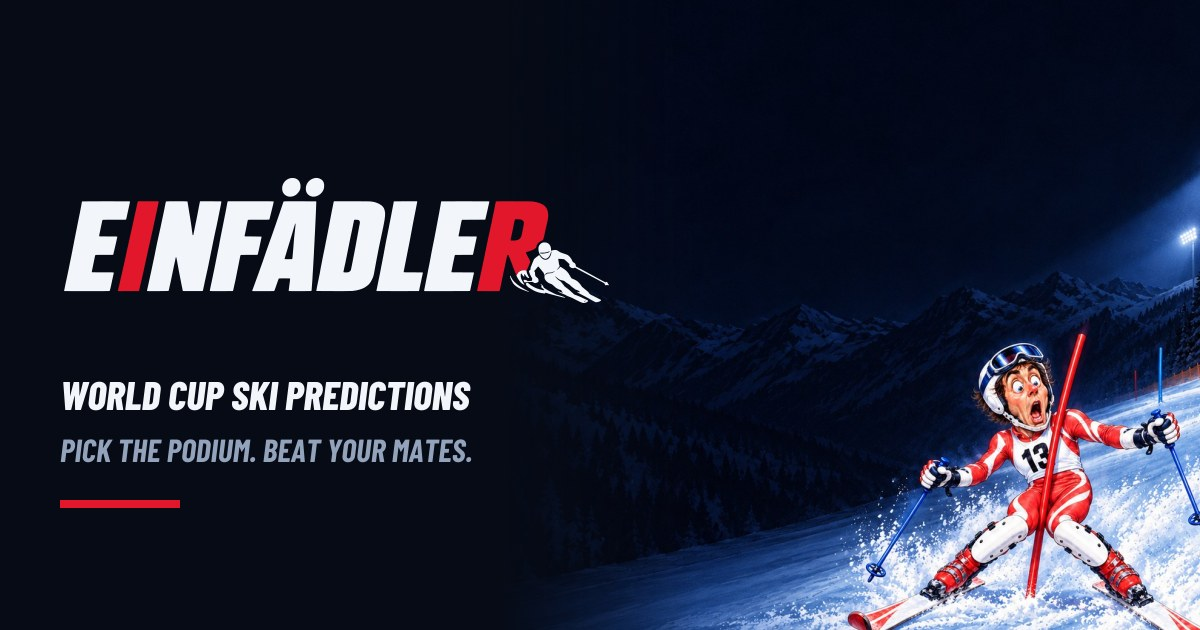
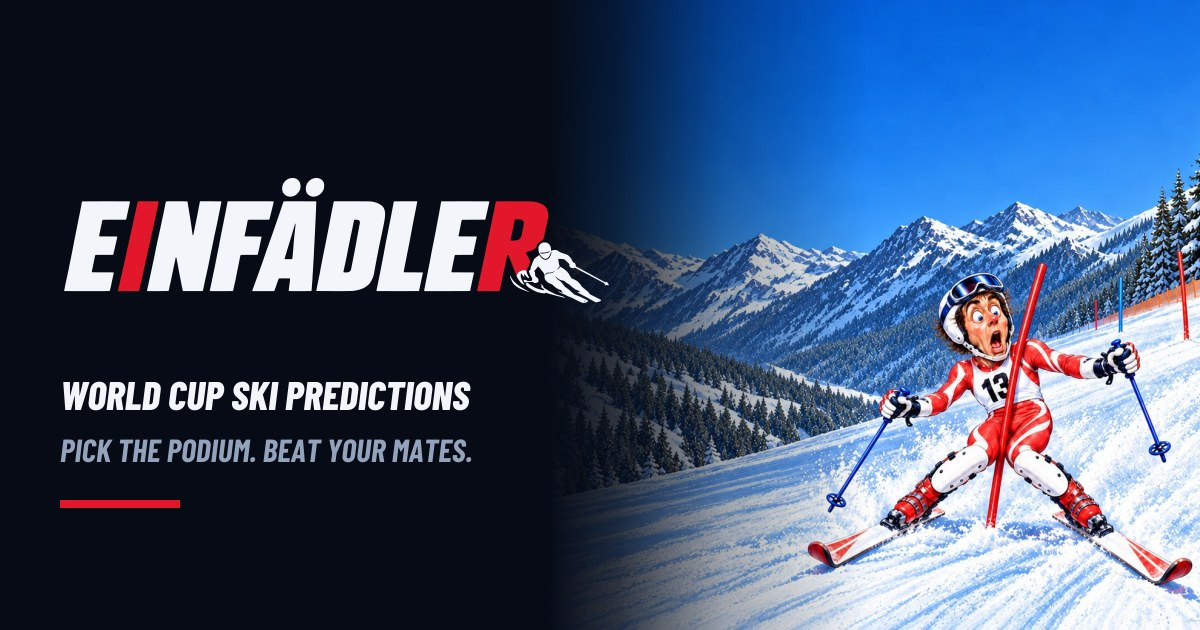
Add files via upload

diff --git a/app.js b/app.js
@@ -60,8 +60,18 @@
   // ---------- EINFÄDLER art ----------
   const EF = "";
   const EF_SCENE = { DH: "downhill", SG: "super-g", GS: "giant-slalom", SL: "slalom", AC: "combined", TDC: "combined", PAR: "parallel", PGS: "parallel", PSL: "parallel" };
-  const efScene = (d) => `${EF}scene-header-${EF_SCENE[d] || "giant-slalom"}.jpg`;
-  const efBanner = (d, page = false) => `<div class="ef-banner${page ? " page" : ""}"><img src="${efScene(d)}" alt=""></div>`;
+  // Venue specials: these weekends get their own art instead of the discipline header.
+  // Matched on race.venue (lower-case, partial) and, if given, the discipline. First match wins.
+  const EF_VENUE = [
+    { match: "kitzb", disc: "SG", art: "scene-venue-kitzbuehel-rooster" },     // Hahnenkamm = rooster's comb
+    { match: "kitzb", disc: "DH", art: "scene-venue-kitzbuehel-mousetrap" },   // the Mausefalle
+    { match: "kitzb", disc: "SL", art: "scene-venue-kitzbuehel-gondola" },     // the cast in a winner's gondola
+    { match: "madonna", art: "scene-hero-night", pos: "60% 85%" },             // night slalom
+    { match: "schladming", art: "scene-hero-night", pos: "60% 85%" },          // night races
+  ];
+  const efVenue = (venue, d) => EF_VENUE.find((x) => (venue || "").toLowerCase().includes(x.match) && (!x.disc || x.disc === d));
+  const efScene = (d, venue) => { const v = efVenue(venue, d); return v ? `${EF}${v.art}.jpg` : `${EF}scene-header-${EF_SCENE[d] || "giant-slalom"}.jpg`; };
+  const efBanner = (d, page = false, venue = "") => { const v = efVenue(venue, d); return `<div class="ef-banner${page ? " page" : ""}"><img src="${efScene(d, venue)}" alt=""${v?.pos ? ` style="object-position:${v.pos}"` : ""}></div>`; };
   const efMoment = (name, small = false) => `<img class="ef-moment${small ? " sm" : ""}" src="${EF}moment-${name}.webp" alt="">`;
   const efIcon = (name) => `<img class="ef-icon" src="${EF}icon-${name}.webp" alt="">`;
   // Your-pick result art: Perfect Score only for the exact podium, Champagne for any other points, Zero Points for 0. Badges always show the real total.
@@ -72,7 +82,9 @@
     return { art: "zero-points", badge: `<span class="ef-badge zero">0</span>` };
   }
   // Double points: a ×2 / ×3 pill wherever a race appears.
-  const efMult = (r) => (r.multiplier > 1 ? ` <span class="pill score" style="padding:2px 8px;font-size:11px">${efIcon("multiplier")}×${r.multiplier}</span>` : "");
+  // The coin has "×2" printed on it, so it stands alone for ×2; ×3 is shown as text.
+  const efMultIcon = (m) => (m === 2 ? efIcon("multiplier") : `<b>×${m}</b>`);
+  const efMult = (r) => (r.multiplier > 1 ? ` <span class="pill score" style="padding:2px 8px;font-size:11px">${efMultIcon(r.multiplier)}</span>` : "");
   const multText = (r) => (r.multiplier > 1 ? `${r.multiplier === 2 ? "Double" : "Triple"} points: everything you score here counts ${r.multiplier === 2 ? "twice" : "three times"}.` : "");
   // Share cards for WhatsApp: the app writes name, race and score onto the template.
   async function efShare(template, { race = "", name = "", score = "" }) {
@@ -167,7 +179,7 @@
 
     view.innerHTML = `
       <section class="card slate">
-        <div class="ef-banner"><img src="scene-hero-night.jpg" alt="" style="object-position:60% 100%"></div>
+        <div class="ef-banner"><img src="scene-cover-day.jpg" alt="" style="object-position:60% 90%"></div>
         <img src="einfaedler-wordmark-dark.svg" alt="${esc(C.LEAGUE_NAME)}" style="height:44px;width:auto;align-self:flex-start">
         <p class="muted">Alpine World Cup ${C.SEASON - 1}/${String(C.SEASON).slice(2)} · podium predictions</p>
       </section>
@@ -177,7 +189,7 @@
         <div class="head">How it works</div>
         <div class="small">Before each World Cup race, pick who finishes 1st, 2nd and 3rd. Picks lock when run 1 starts.</div>
         <div class="small"><b>10</b> for the exact podium · <b>6</b> for the right three in the wrong order · otherwise <b>2</b> per skier in the exact spot and <b>1</b> per skier on the podium elsewhere. Ties count both skiers.</div>
-        <div class="small">Some races are marked ${efIcon("multiplier")}<b>×2</b> or <b>×3</b> by the admins before they lock: everything you score there is multiplied.</div>
+        <div class="small">Some races are marked ${efIcon("multiplier")} or <b>×3</b> by the admins before they lock: everything you score there is multiplied.</div>
         <div class="small">${FREE ? "Each competition has its own leaderboard." : "Each competition has its own buy-in, leaderboard and pot."} World Championships count too.</div>
       </div>
       <form id="comps" style="gap:10px">
@@ -294,7 +306,7 @@
         <a class="card link row" href="#/race/${last.id}">
           <div class="stack"><h3>${esc(last.venue)} · ${esc(last.discipline)} · ${genderName(last.gender)}${efMult(last)}</h3>
           <span class="muted small">${best ? `Best this race: ${best.points} (${esc(best.display_name)})` : "Scored"}</span></div>
-          <span class="ef-result">${mineScore ? efMoment(res.art, true) + res.badge : '<span class="big-score">—</span>'}</span></a>
+          <span class="ef-result">${mineScore ? efMoment(res.art, true) + res.badge : inComp(last.gender) ? efMoment("asleep", true) : '<span class="big-score">—</span>'}</span></a>
         <a href="#/results" class="muted small" style="text-align:right"><b>All past races →</b></a></section>`;
     }
     const counts = await Promise.all(next.map((r) => sb.rpc("pick_count", { r: r.id }).then((x) => x.data ?? null)));
@@ -313,13 +325,14 @@
         return `<section class="section">
           <div class="eyebrow">${first ? "Next race" : "Also open"} · locks in <span data-countdown="${r.start_time_utc || ""}"></span></div>
           <a class="card ${first ? "slate" : ""} link" href="#/race/${r.id}">
-            ${first ? efBanner(r.discipline) : ""}
+            ${first ? efBanner(r.discipline, false, r.venue) : ""}
             <div class="row"><div class="stack">
               <h${first ? 1 : 3}>${esc(r.venue)}${catBadge(r)}</h${first ? 1 : 3}>
               <span class="${first ? "" : "small"}"><b>${discName(r.discipline)} · ${genderName(r.gender)}</b>${efMult(r)}</span>
               <span class="muted small">${fmtDate(r.race_date)} · run 1 at ${fmtTime(r.start_time_utc)}</span>
             </div>
             <span class="pill ${!inComp(r.gender) ? "ghost" : picked ? "accent" : "score"}">${!inComp(r.gender) ? efIcon("locked") + (FREE ? "Not entered" : "Pay to pick") : picked ? efIcon("accepted") + "Pick in ✓" : efIcon("closing-soon") + "No pick yet"}</span></div>
+            ${first && inComp(r.gender) && !picked && r.start_time_utc && new Date(r.start_time_utc) - Date.now() < 3600000 ? `<div class="row divider" style="gap:10px">${efMoment("closing-soon", true)}<b>Closes in under an hour and you haven't picked.</b></div>` : ""}
             ${first ? `<div class="row divider"><span class="muted small">${counts[i] != null ? `${counts[i]} of ${members} have picked` : ""}</span><span class="btn accent sm">${!inComp(r.gender) ? "View race" : picked ? "Change pick" : "Make your pick"}</span></div>` : ""}
           </a></section>`;
       }).join("")}
@@ -345,10 +358,10 @@
       ? `<video class="ef-art" src="${esc(art)}" autoplay muted playsinline loop preload="auto"></video>`
       : `<img class="ef-art" src="${esc(art)}" alt="">`;
     const head = (sub) => `<a href="#/" class="muted small">‹ Races</a>
-      ${efBanner(race.discipline, true)}
+      ${efBanner(race.discipline, true, race.venue)}
       <section class="section"><h1>${esc(race.venue)} · ${discName(race.discipline)}${catBadge(race)}</h1>
       <p class="muted">${genderName(race.gender)} · ${fmtDate(race.race_date)} · ${sub}</p>
-      ${race.multiplier > 1 ? `<p class="small" style="color:var(--score);font-weight:600">${efIcon("multiplier")} ×${race.multiplier} ${race.multiplier === 2 ? "double" : "triple"} points</p>` : ""}</section>`;
+      ${race.multiplier > 1 ? `<p class="small" style="color:var(--score);font-weight:600">${efMultIcon(race.multiplier)} ${race.multiplier === 2 ? "double" : "triple"} points</p>` : ""}</section>`;
 
     if (isOpen(race) && !inComp(race.gender)) {
       const ent = race.gender === "M" ? state.profile.entered_men : state.profile.entered_women;
@@ -413,7 +426,7 @@
     const count = await sb.rpc("pick_count", { r: race.id }).then((x) => x.data);
 
     view.innerHTML = head(`run 1 at ${fmtTime(race.start_time_utc)} · locks in <b data-countdown="${race.start_time_utc || ""}"></b>`) + `
-      ${race.multiplier > 1 ? `<div class="card row" style="border-left:4px solid var(--score)">${efIcon("multiplier")}<b>${multText(race)}</b></div>` : ""}
+      ${race.multiplier > 1 ? `<div class="card row" style="border-left:4px solid var(--score)">${efMultIcon(race.multiplier)}<b>${multText(race)}</b></div>` : ""}
       <p class="muted small">Pick who finishes 1st, 2nd and 3rd. Change it as often as you like until the race starts.${count != null ? ` ${count} of ${state.leaderboard?.length ?? "the"} members have picked.` : ""}</p>
       ${existing ? `<div class="card row">${efMoment("locked-in", true)}<b>Your pick is in. Change it until run 1.</b></div>` : ""}
       ${race.status === "postponed" ? `<div class="card row">${efMoment("weather-hold", true)}<b>Postponed. Picks stay open.</b></div>` : ""}
@@ -544,6 +557,7 @@
   function renderRules() {
     const row = (t, d) => `<div class="stack" style="gap:2px"><b>${t}</b><span class="muted small">${d}</span></div>`;
     return `<section class="section"><div class="eyebrow">${efIcon("podium-pick")} How it works</div>
+      <img src="scene-rules.jpg" alt="" style="display:block;width:100%;height:auto;border-radius:var(--radius-lg)">
       <div class="list">
         <div class="head">Picking</div>
         ${row("Pick the podium", "Before each race, pick who finishes 1st, 2nd and 3rd. Change it as often as you like.")}
@@ -682,6 +696,7 @@
     const efNotice = (art, msg) => { $("#ef-notice")?.remove(); view.insertAdjacentHTML("afterbegin", `<div class="card row" id="ef-notice">${efMoment(art, true)}<b>${msg}</b></div>`); };
     window.addEventListener("offline", () => efNotice("no-signal", "No signal. Showing what we had."));
     window.addEventListener("online", () => { $("#ef-notice")?.remove(); route(); });
+    window.addEventListener("unhandledrejection", () => { if (navigator.onLine) efNotice("something-broke", "Something broke. Pull down to try again."); });
     sb.auth.onAuthStateChange((event, session) => {
       // Defer: calling Supabase from inside this callback can deadlock the auth lock.
       setTimeout(async () => {

diff --git a/einfaedler-theme.css b/einfaedler-theme.css
@@ -88,3 +88,11 @@ h2, h3 { font-weight: 800; letter-spacing: 0; }
 .ef-badge.perfect { background: var(--ef-red); }
 .ef-badge.zero { background: #33405A; }
 .toast img { width: 22px; height: 22px; vertical-align: -5px; margin-right: 6px; }
+
+/* Podium reveal for special races (RACE_ART in config.js) */
+.reveal { opacity: 0; transform: translateY(18px); transition: opacity 0.6s ease, transform 0.6s ease; }
+.reveal.show { opacity: 1; transform: none; }
+.podium > .reveal .step { transform-origin: bottom; transform: scaleY(0.2); transition: transform 0.6s cubic-bezier(.2,1.4,.4,1); }
+.podium > .reveal.show .step { transform: none; }
+.ef-art { display: block; width: 100%; max-width: 360px; height: auto; border-radius: 12px; }
+@media (prefers-reduced-motion: reduce) { .reveal { opacity: 1; transform: none; transition: none; } .podium > .reveal .step { transform: none; } }

diff --git a/config.js b/config.js
@@ -31,7 +31,7 @@ window.PL_CONFIG = {
     { name: "Kitzbühel week", from: "2027-01-18", to: "2027-01-24",
       vars: { "--slate": "#141414", "--accent": "#D50000", "--accent-ink": "#FFFFFF", "--pale": "#F2F2F4" } },
     { name: "World Championships", from: "2027-02-01", to: "2027-02-14",
-      vars: { "--slate": "#B3122E", "--accent": "#FFFFFF", "--accent-ink": "#B3122E", "--pale": "#FBEDEF" } },
+      vars: { "--slate": "#B3122E", "--accent": "#2F6FE0", "--accent-ink": "#FFFFFF", "--pale": "#FBEDEF" } },
     { name: "Finals", from: "2027-03-15", to: "2027-03-31",
       vars: { "--slate": "#2B3A55", "--accent": "#E3B341", "--accent-ink": "#14213D", "--pale": "#FFF6DD" } }
   ]
